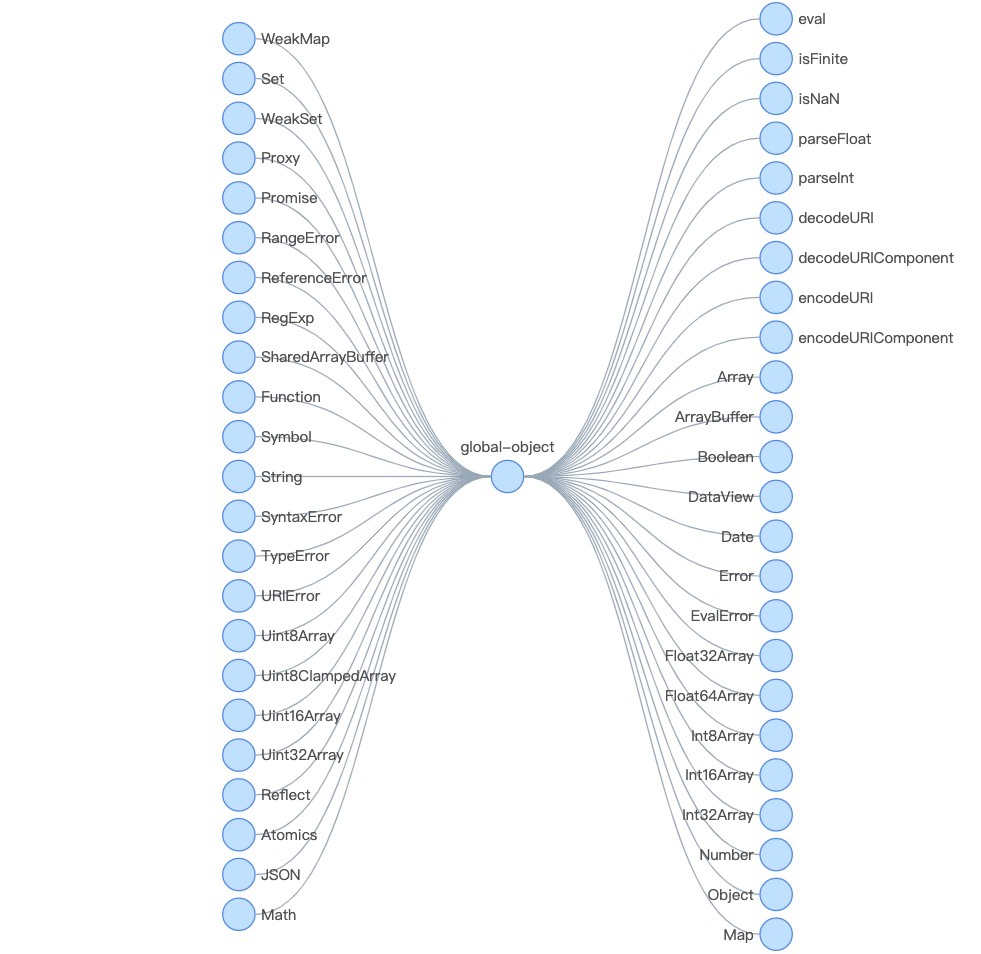
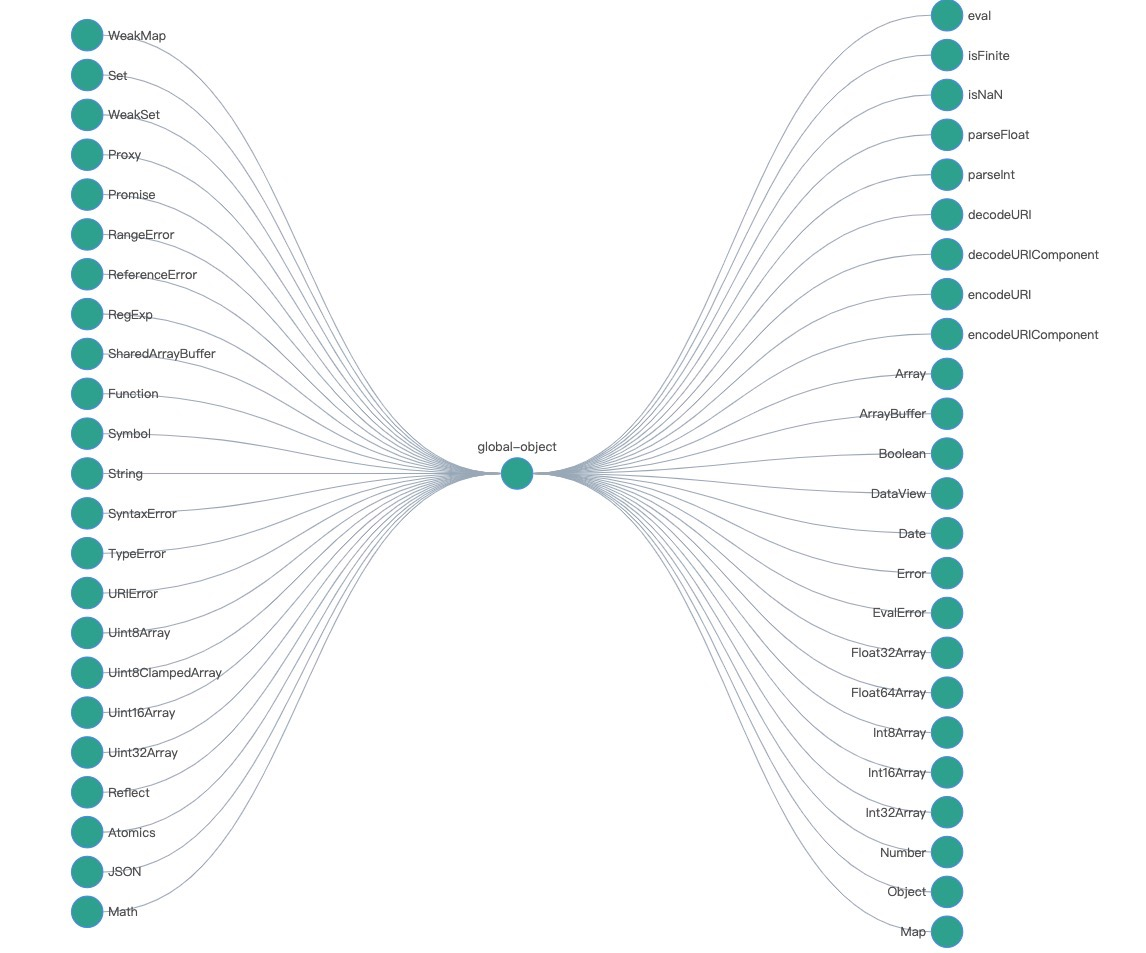
g6

Changed region(s): [[0.0612, 0.0, 0.9786, 1.0]]

diff --git a/week05/realm-g6.html b/week05/realm-g6.html
@@ -7,7 +7,7 @@
     <style>
       html,
       body,
-      #container {
+      #app {
         height: 100%;
         padding: 0;
         margin: 0;
@@ -15,7 +15,7 @@
     </style>
   </head>
   <body>
-    <div id="container"></div>
+    <div id="app"></div>
     <script src="https://gw.alipayobjects.com/os/antv/pkg/_antv.g6-3.4.7/dist/g6.min.js"></script>
     <script>
       function ownPropertyNamesFor(target) {
@@ -119,8 +119,9 @@
       }
     </script>
     <script>
-      const width = document.getElementById("container").scrollWidth;
-      const height = document.getElementById("container").scrollHeight;
+      // 参考 https://g6.antv.vision/zh/docs/manual/getting-started
+      const width = document.getElementById("app").scrollWidth;
+      const height = document.getElementById("app").scrollHeight;
       const data = {
         id: "global-object",
         name: "global-object",
@@ -128,17 +129,15 @@
       };
 
       const graph = new G6.TreeGraph({
-        container: "container",
-        width,
-        height,
+        container: "app",
+        width: width,
+        height: height,
         modes: {
           default: [
             {
               type: "collapse-expand",
               onChange: function onChange(item, collapsed) {
-                const data = item.get("model").data;
-                data.collapsed = collapsed;
-                return true;
+                console.log(item)
               },
             },
             "drag-canvas",
@@ -146,13 +145,13 @@
           ],
         },
         defaultNode: {
-          size: 26,
+          size: 30,
           anchorPoints: [
             [0, 0.5],
             [1, 0.5],
           ],
           style: {
-            fill: "#C6E5FF",
+            fill: "#3a9",
             stroke: "#5B8FF9",
           },
         },
@@ -166,16 +165,16 @@
           type: "mindmap",
           direction: "H",
           getHeight: () => {
-            return 16;
+            return 18;
           },
           getWidth: () => {
-            return 16;
+            return 10;
           },
           getVGap: () => {
-            return 8;
+            return 10;
           },
           getHGap: () => {
-            return 100;
+            return 200;
           },
         },
       });

diff --git a/week05/realm.js b/week05/realm.js
@@ -1,5 +1,4 @@
 // 参考 https://www.ecma-international.org/ecma-262/10.0/index.html#sec-value-properties-of-the-global-object
-// 开一个新页面，把代码粘贴进去，开一个html页面会重复；
 var globalProperties = [
   // Value Properties of the Global Object
   // "Infinity",
